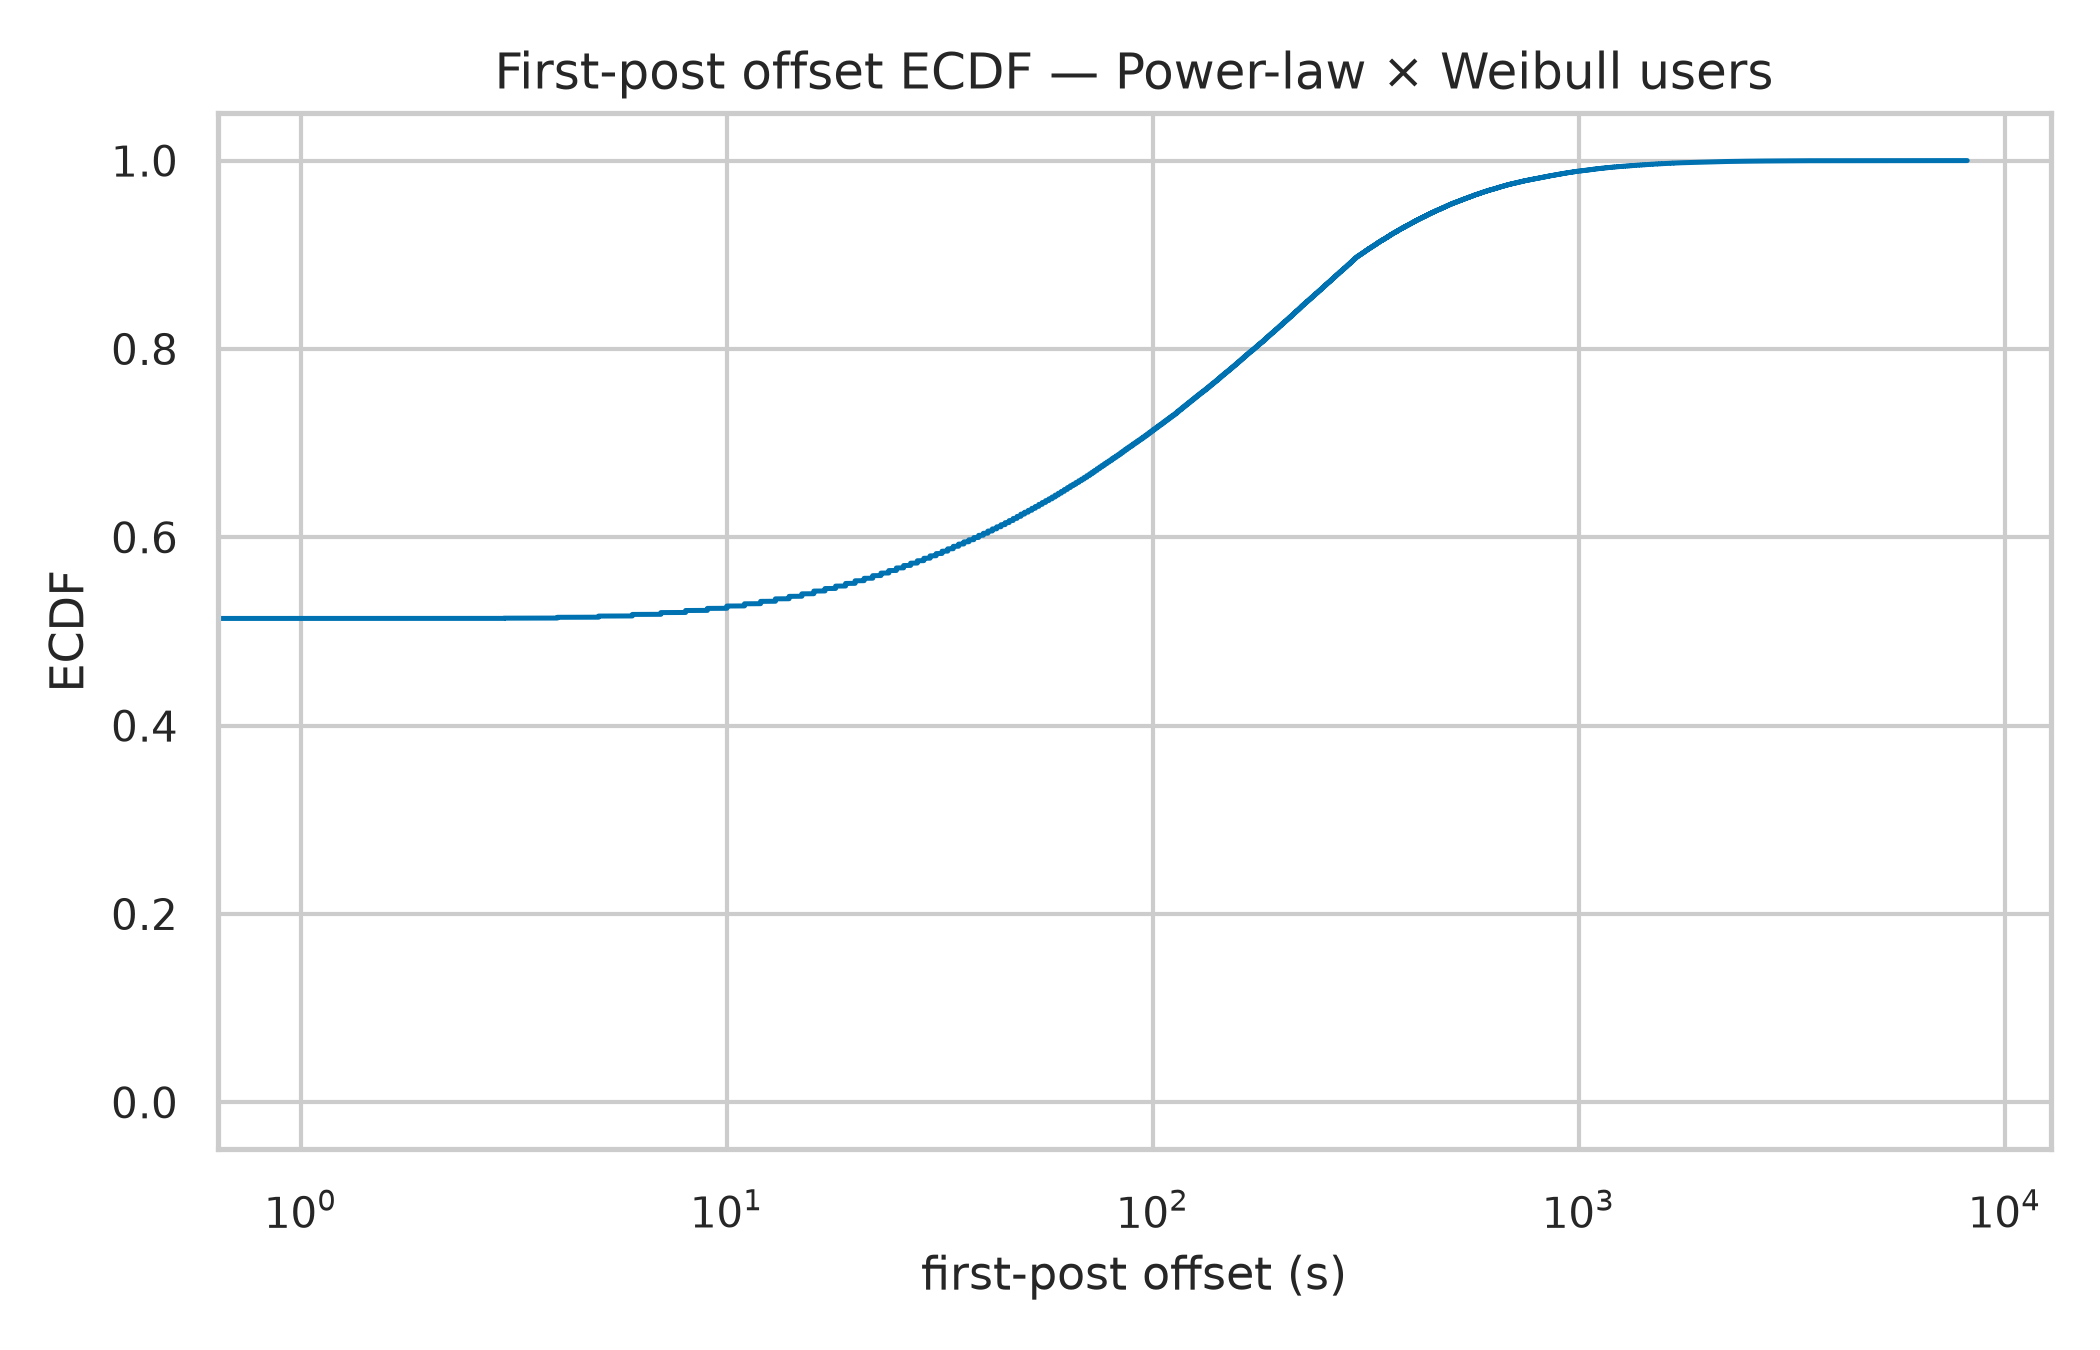
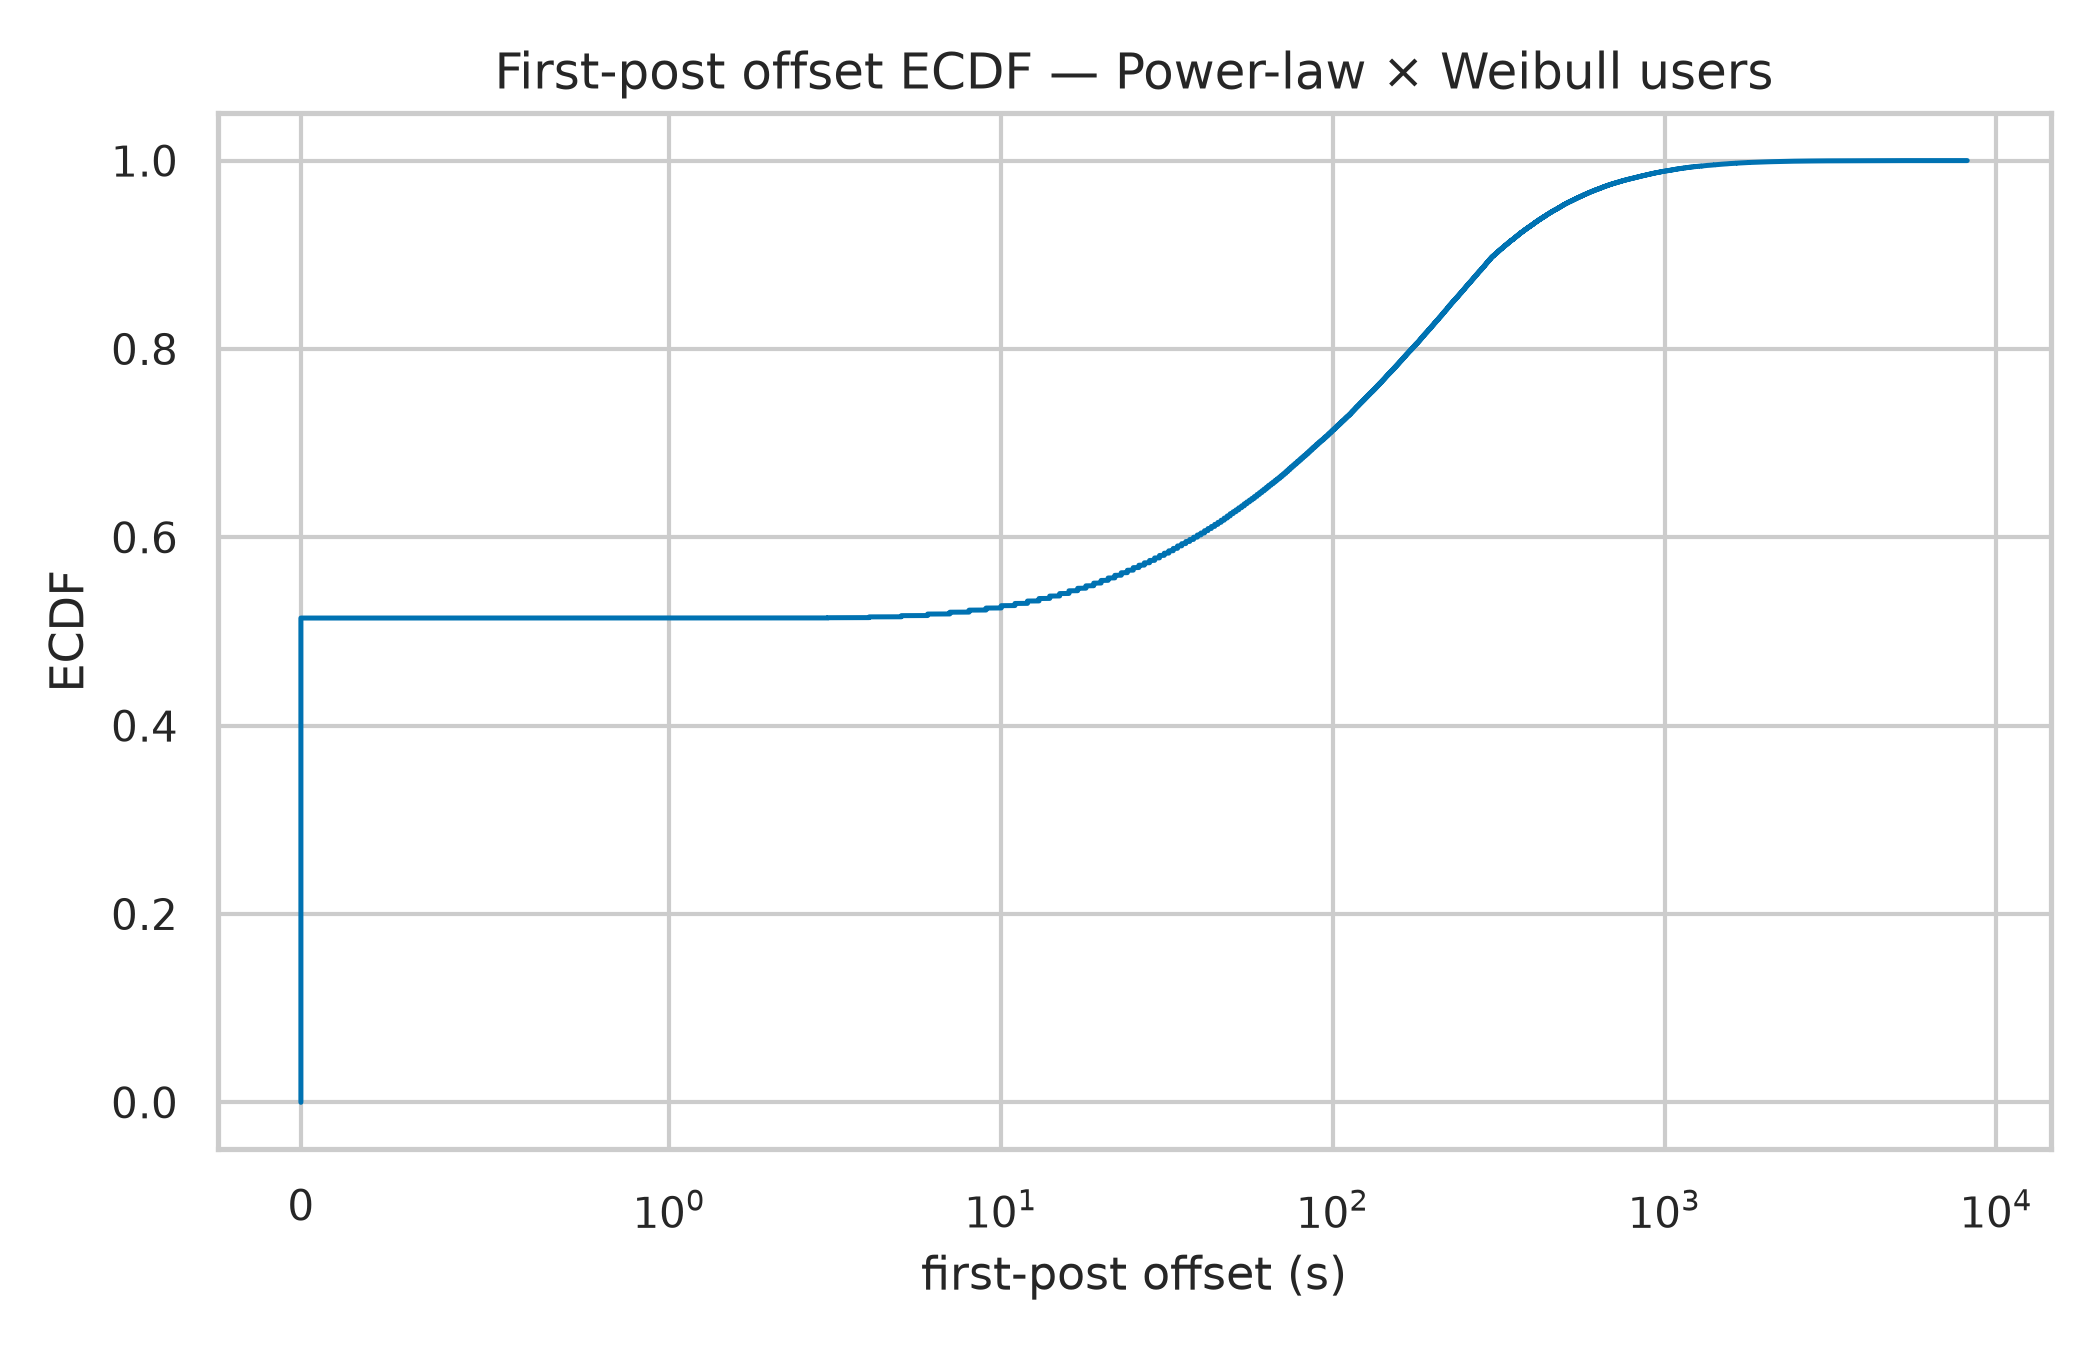
recond ecdf plots

diff --git a/sessions/inter-post-creation/3-ecdf/export_by_pair.py b/sessions/inter-post-creation/3-ecdf/export_by_pair.py
@@ -134,7 +134,7 @@ def main():
         fig, ax = plt.subplots(figsize=(7, 4.5))
         xs = np.sort(o)
         ax.plot(xs, np.arange(1, len(xs) + 1) / len(xs), color="#0072B2", linewidth=1.2)
-        ax.set_xscale("log")
+        ax.set_xscale("symlog", linthresh=1)  # ~half of offsets are exactly 0; plain log drops them
         ax.set_xlabel("first-post offset (s)")
         ax.set_ylabel("ECDF")
         ax.set_title(f"First-post offset ECDF — {DISPLAY[dur]} $\\times$ "
